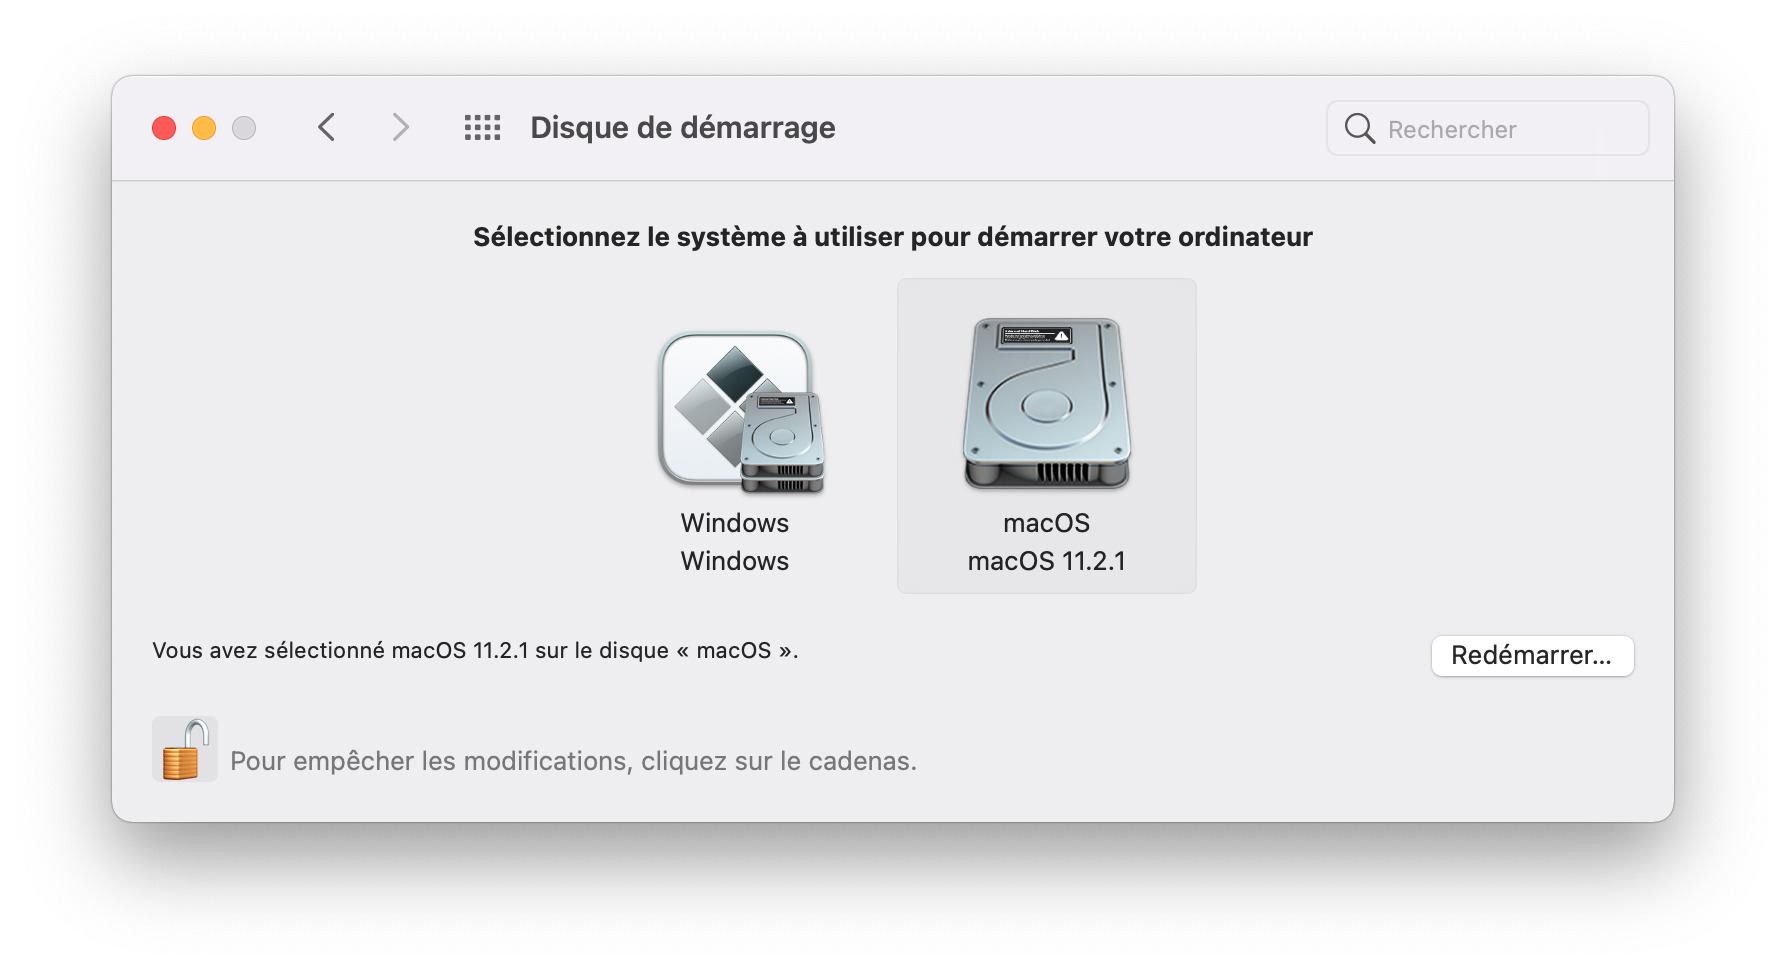
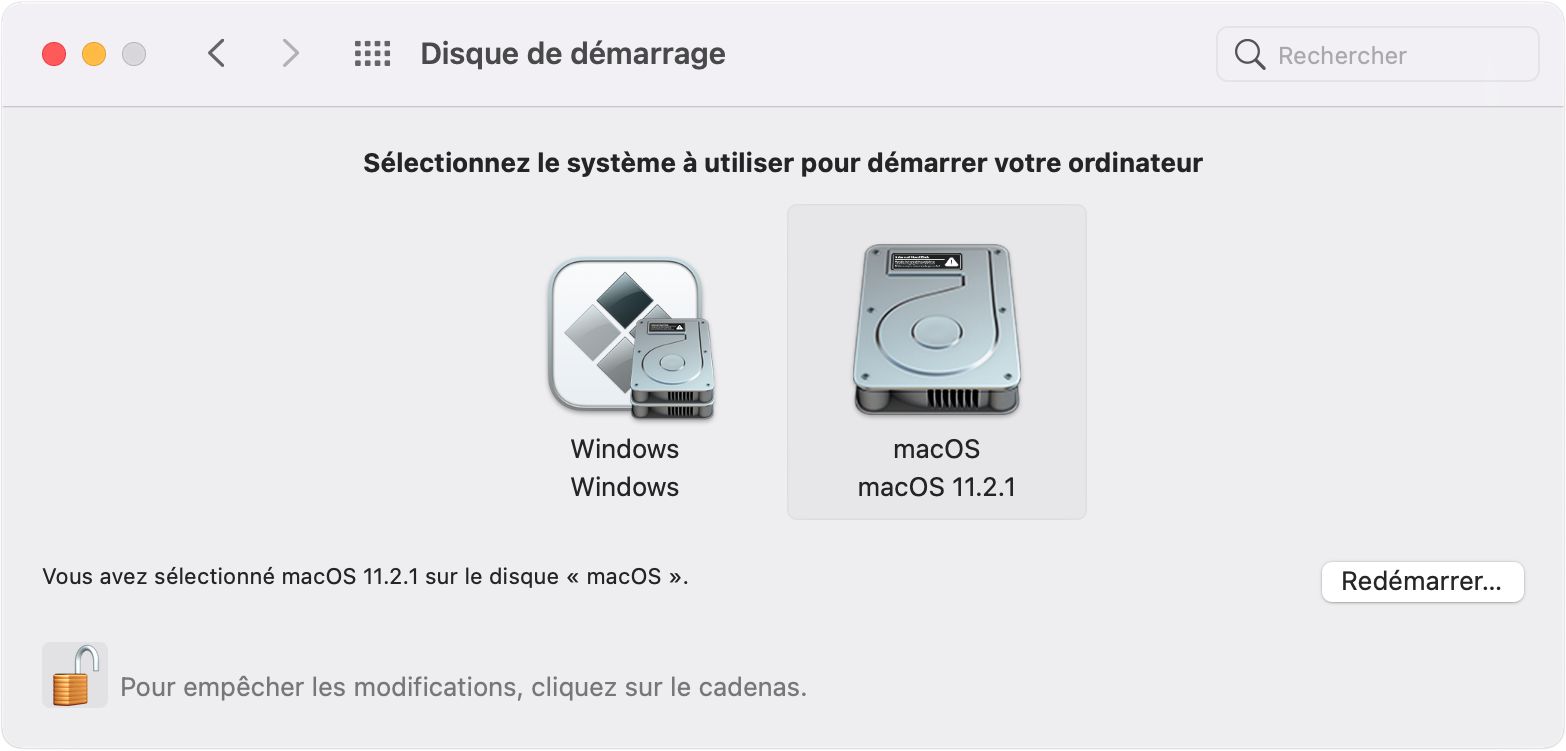
Update README.md

diff --git a/README.md b/README.md
@@ -104,8 +104,8 @@ DP and HDMI are working fine after patching the Framebuffer. Keep in mind that t
   	<key>model</key>
   	<string>Intel UHD Graphics 630</string>
   </dict>
-  ```
-  
+```
+
   <p align="center"><img src="./Images/displays.png" alt="Startup disk" width="698" /></p>
 
 - **Wifi *(TP-LINK AC1300 - Archer T6E)***
@@ -120,7 +120,7 @@ DP and HDMI are working fine after patching the Framebuffer. Keep in mind that t
 - **NVRAM**
 Working natively. Change default startup disk from the macOS settings.
   
-  <p align="center"><img src="./Images/startup_disk.png" alt="Startup disk" width="893" /></p>
+  <p align="center"><img src="./Images/startup_disk.png" alt="Startup disk" width="783" /></p>
 
 - **Reboot/Shutdown**
 
@@ -143,7 +143,7 @@ Working natively. Change default startup disk from the macOS settings.
 - **External sound card *(Zoom Livetrack L-12)***
   Using [macOS driver](https://zoomcorp.com/en/us/digital-mixer-multi-track-recorders/digital-mixer-recorder/livetrak-l-12/l-12-support/) for Zoom livetrack L-12 in order to use multitrack recording, and USB transfers between macOS and the device.
   
-  <p align="center"><img src="./Images/livetrack.png" alt="Livetrack" width="893" /></p>
+  <p align="center"><img src="./Images/livetrack.png" alt="Livetrack" width="783" /></p>
 
 ## Not Working
 
